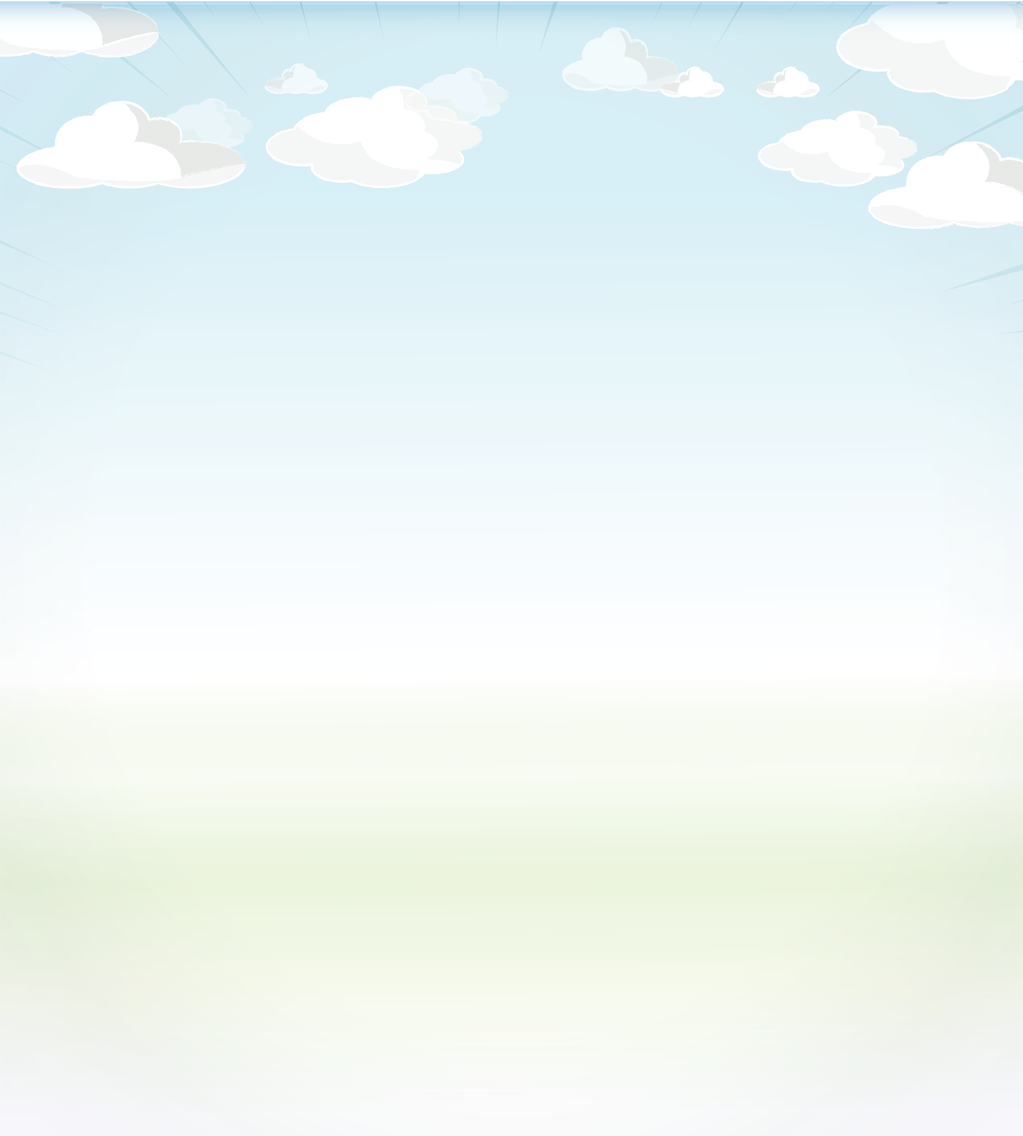
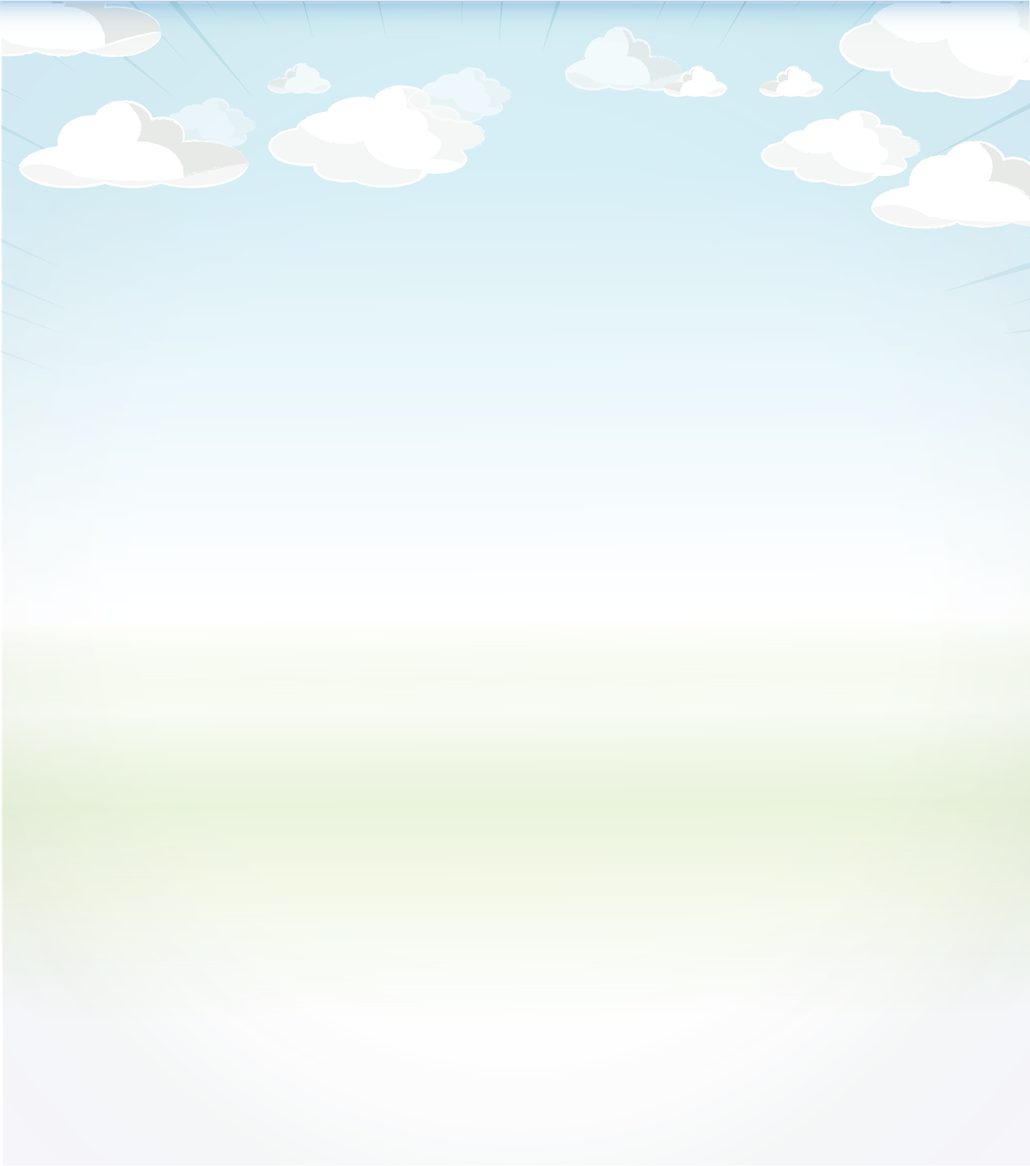
champ

diff --git a/page/rule.php b/page/rule.php
@@ -70,8 +70,8 @@
             }
 
          .scrollview-text {
-            margin-left: -25%;
-            margin-right: -25%;
+            margin-left: -40%;
+            margin-right: -40%;
             height: 1050px;
 
             overflow: auto;
@@ -127,11 +127,11 @@
                 <div class="txt_r r_title">ระยะเวลาการร่วมสนุก</div>
                 <ol class="ol_left">
                     <li>
-                        <div class="txt_r r_body">ผู้ร่วมสนุกสามารถส่งผลงานเข้าประกวดได้ตั้งแต่วันที่ 13 มีนาคม– 24 เมษายน 2560 (รวมระยะเวลาทั้งสิ้น 43 วัน) 
-                    ผ่านทาง www.BlackmoresMyStrongFamily.com</div>
+                        <div class="txt_r r_body">1. ผู้ร่วมสนุกสามารถส่งผลงานเข้าประกวดได้ตั้งแต่วันที่ 20 มีนาคม– 02 พฤษภาคม 2560 (รวมระยะเวลาทั้งสิ้น 44 วัน)  ผ่านทาง www.BlackmoresMyStrongFamily.com </div>
+
                     </li>
                      <li>
-                        <div class="txt_r r_body">ปิดรับผลงานทั้งหมดในวันที่ 24 เมษายน 2560 เวลา 24.00 น.</div>
+                        <div class="txt_r r_body">2. ปิดรับผลงานทั้งหมดในวันที่ 02 พฤษภาคม 2560 เวลา 24.00 น.</div>
                     </li>
                 </ol>
               
@@ -139,17 +139,16 @@
                 <div class="txt_r r_title">การประกาศรางวัล</div>
                  <ol class="ol_left">
                      <li>
-                         <div class="txt_r r_body">ประกาศผลวันที่ 28 เมษายน 2560 ผ่านทาง www.blackmoresmystrongfamily.com ดังนี้</div>
+                         <div class="txt_r r_body">1. ประกาศผลวันที่ 09 พฤษภาคม 2560 ผ่านทาง www.BlackmoresMyStrongFamily.com ดังนี้</div>
                          <ul>
-                            <li><div class="txt_r r_body">- ผู้ผ่านเข้ารอบ ประเภทอายุ 8 – 12 ปี เข้าร่วม Workshop กับอ.ชลิต นาคพะวัน ในวันอาทิตย์ที่ 14 พฤษภาคม 2560
-              ที่โรงเรียนสอนศิลปะ Chalit Art Project and Gallery เพื่อหาผู้ชนะเลิศ จำนวน 30 คน</div></li>
+                            <li><div class="txt_r r_body">- ผ่านเข้ารอบ ประเภทอายุ 8 – 12 ปี เข้าร่วม Workshop กับอ.ชลิต นาคพะวัน ในวันอาทิตย์ที่ 21 พฤษภาคม 2560 ที่โรงเรียนสอนศิลปะ Chalit Art Project and Gallery เพื่อหาผู้ชนะเลิศ จำนวน 30 คน</div></li>
                            </ul>
                      </li>
                      <li>
-                         <div class="txt_r r_body">ประกาศผลวันที่ 17 พฤษภาคม 2560 ผ่านทาง www.blackmoresmystrongfamily.com ดังนี้ </div>
+                         <div class="txt_r r_body">2. ประกาศผลวันที่ 24 พฤษภาคม 2560 ผ่านทาง www.BlackmoresMyStrongFamily.com ดังนี้ </div>
                          <ul>
                              <li>
-                                 <div class="txt_r r_body">&nbsp;&nbsp;&nbsp;&nbsp;ผู้ชนะเลิศประเภทอายุน้อยกว่า 8 ปี จำนวน 5 รางวัล</div>
+                                 <div class="txt_r r_body">- ผู้ชนะเลิศประเภทอายุน้อยกว่า 8 ปี จำนวน 5 รางวัล</div>
                              </li>  
                                 <div class="txt_r r_body">- ผู้ชนะเลิศประเภทอายุ 8- 12 ปี จำนวน 5 รางวัล</div>
                             <li>  
@@ -167,16 +166,14 @@
                 <div class="txt_r r_bold">&nbsp;&nbsp;&nbsp;&nbsp;รางวัลประเภทอายุน้อยกว่า 8 ปี</div>
                 <ul class="ul_left">
                     <li>
-                        <div class="txt_r r_body">รางวัลทุนการศึกษารางวัลละ 3,000 บาท พร้อมผลิตภัณฑ์เสริมอาหาร Blackmores  มูลค่ารางวัลละ 10,000 บาท 5 รางวัล
-                    รวมมูลค่าทั้งสิ้น 65,000 บาท </div>
+                        <div class="txt_r r_body">รางวัลทุนการศึกษารางวัลละ 3,000 บาท พร้อมผลิตภัณฑ์เสริมอาหาร Blackmores  มูลค่ารางวัลละ 10,000 บาทสำหรับผู้ปกครอง 5 รางวัล รวมมูลค่าทั้งสิ้น 65,000 บาท</div>
                     </li>
                 </ul>
 
                 <div class="txt_r r_bold">&nbsp;&nbsp;&nbsp;&nbsp;รางวัลประเภทอายุ 8 – 12 ปี</div> 
                 <ul class="ul_left">
                     <li>
-                        <div class="txt_r r_body">รางวัลทุนการศึกษารางวัลละ 5,000 บาท พร้อมผลิตภัณฑ์เสริมอาหาร Blackmores  มูลค่ารางวัลละ 10,000 บาท 5 รางวัล
-                    รวมมูลค่าทั้งสิ้น 75,000 บาท </div>  
+                        <div class="txt_r r_body">รางวัลทุนการศึกษารางวัลละ 5,000 บาท พร้อมผลิตภัณฑ์เสริมอาหาร Blackmores  มูลค่ารางวัลละ 10,000 บาทสำหรับผู้ปกครอง 5 รางวัล รวมมูลค่าทั้งสิ้น 75,000 บาท</div>  
                     </li>
                 </ul>
                 <div class="txt_r r_bold">&nbsp;&nbsp;&nbsp;&nbsp;รางวัลผลงาน Popular Vote</div> 
@@ -193,7 +190,7 @@
                     </li>
                 </ul>
                 
-                <br/><br/>
+                <br/>
                 <div class="txt_r r_title">เกณฑ์การตัดสิน </div> 
                 <div class="txt_r r_body">ตัดสินรางวัลจากทีมคณะกรรมการ บริษัท แบลคมอร์ส จำกัด และอาจารย์ชลิต นาคพะวัน</div> 
                 <br/>
@@ -203,84 +200,85 @@
                  <ol class="ol_left">
                      <li> 
                          <div class="txt_r r_body">
-                         ผู้โชคดีที่ได้รับรางวัล ทุนการศึกษา และ ผลิตภัณฑ์เสริมอาหาร ต้องมี “ผลงานที่ส่งเข้าประกวด” และ ชื่อ-นามสกุล ที่ระบุในผลงานซึ่งตรงกับประกาศผู้ชนะเลิศทางเว็บไซต์ พร้อมเอกสารยืนยันตัวตน มาแสดงเป็นหลักฐานในการรับของรางวัล
+                         1. ผู้โชคดีที่ได้รับรางวัล ทุนการศึกษา และ ผลิตภัณฑ์เสริมอาหาร ต้องมี “ผลงานที่ส่งเข้าประกวด” และ ชื่อ-นามสกุล ที่ระบุในผลงาน ซึ่งตรงกับประกาศผู้ชนะเลิศทางเว็บไซต์ พร้อมเอกสารยืนยันตัวตน มาแสดงเป็นหลักฐานในการรับของรางวัล 
                          </div>
                     </li>
                     <li> 
                         <div class="txt_r r_body">
-                         ผู้ที่ได้รับคัดเลือกเข้าร่วม Workshop 30 คน จะต้องยืนยันสิทธิ์ภายใน 7 วัน (ตั้งแต่วันที่ 29 เมษายน – 9 พฤษภาคม) ผ่านทาง Inbox ของ Facebook Blackmores Thailand นับตั้งแต่วันประกาศรายชื่อ
+                         2. ผู้ที่ได้รับคัดเลือกเข้าร่วม Workshop 30 คน จะต้องยืนยันสิทธิ์ภายใน 11 วัน (ตั้งแต่วันที่ 9 – 19 พฤษภาคม 2560) ผ่านทาง Inbox ของ
                          </div>
                     </li>
                     <li>
                          <div class="txt_r r_body">
-                        ผู้โชคดีที่ได้รับรางวัลทุนการศึกษา และผลิตภัณฑ์เสริมอาหารจะต้องยืนยันสิทธิ์ในการรับรางวัลภายใน 7 วัน (วันที่ 19 – 24 พฤษภาคม 2560) ผ่านทาง Inbox ของ Facebook Blackmores Thailand นับตั้งแต่วันประกาศรายชื่อ
+                        3. ผู้โชคดีที่ได้รับรางวัลทุนการศึกษา และผลิตภัณฑ์เสริมอาหารจะต้องยืนยันสิทธิ์ในการรับรางวัลภายใน 7 วัน  (วันที่ 24- 30 พฤษภาคม 2560) ผ่านทาง Inbox ของ Facebook Blackmores Thailand นับตั้งแต่วันประกาศรายชื่อ 
                         </div>
                     </li>
+
                     <li>
                         <div class="txt_r r_body">
-                        เกณฑ์การตัดสินรางวัลมีดังนี้
+                        4. เกณฑ์การตัดสินรางวัลมีดังนี้
                         </div>
                         <ul>
-                            <li class="a">
+                            <li >
                                 <div class="txt_r r_body">
-                                สำหรับประเภทอายุน้อยกว่า 8 ปี ทางคณะกรรมการจะตัดสินจากผลงานที่สร้างสรรค์ที่สุด
+                                - สำหรับประเภทอายุน้อยกว่า 8 ปี ทางคณะกรรมการจะตัดสินจากผลงานที่สร้างสรรค์ที่สุด
                                 </div>
                             </li> 
-                            <li class="a">
+                            <li >
                                 <div class="txt_r r_body">
-                                สำหรับประเภทอายุ 8-12 ปี ทางคณะกรรมการจะตัดสินจากผลงานที่สร้างสรรค์ที่สุด 30 รางวัล และร่วมเวิร์คช้อปอีกครั้งจึงประกาศ รางวัลผู้ชนะเลิศ 5 รางวัล
+                                - สำหรับประเภทอายุ 8-12 ปี ทางคณะกรรมการจะตัดสินจากผลงานที่สร้างสรรค์ที่สุด 30 รางวัล และร่วมเวิร์คช้อปอีกครั้งจึงประกาศ รางวัลผู้ชนะเลิศ 5 รางวัล
                                 </div>
                             </li>
-                            <li class="a">
+                            <li >
                                 <div class="txt_r r_body">
-                                สำหรับผลงาน Popular Vote ทางคณะกรรมการจะตัดสินจากคะแนนที่มากที่สุด 5 อันดับแรกของแต่ละประเภทอายุ รวมเป็น 10 รางวัล
+                                - สำหรับผลงาน Popular Vote ทางคณะกรรมการจะตัดสินจากคะแนนที่มากที่สุด 5 อันดับแรกของแต่ละประเภทอายุ รวมเป็น 10 รางวัล
                                 </div>
                             </li>
-                            <li class="a">
+                            <li >
                                 <div class="txt_r r_body">
-                                สำหรับผู้เข้าร่วมโหวตผลงาน ทางคณะกรรมการจะตัดสินด้วยวิธีการสุ่มผู้โชคดี
+                                - สำหรับผู้เข้าร่วมโหวตผลงาน ทางคณะกรรมการจะตัดสินด้วยวิธีการสุ่มผู้โชคดี
                                 </div>
                             </li>
                         </ul>
                     </li>
                     <li>
                         <div class="txt_r r_body">
-                        สงวนสิทธิ์ รับรางวัลมูลค่าสูงสุดเพียงรางวัลเดียวเท่านั้น ต่อ 1 ท่าน อาทิเช่น หากท่านชนะเลิศในรายการประเภทอายุต่ำกว่า 8 ปี และชนะเลิศรางวัล Popular Vote ด้วยทางทีมงานจะขอสงวนสิทธิ์ให้เพียงรางวัลเดียว ที่มีมูลค่าสูงสุดเท่านั้น
+                        5. สงวนสิทธิ์ รับรางวัลมูลค่าสูงสุดเพียงรางวัลเดียวเท่านั้น ต่อ 1 ท่าน อาทิเช่น หากท่านชนะเลิศในรายการประเภทอายุต่ำกว่า 8 ปี และชนะเลิศรางวัล Popular Vote ด้วยทางทีมงานจะขอสงวนสิทธิ์ให้เพียงรางวัลเดียว ที่มีมูลค่าสูงสุดเท่านั้น
                         </div>
                     </li>
                     <li>
                         <div class="txt_r r_body">
-                        ผู้ชนะเลิศทั้งประเภทอายุน้อยกว่า 8 ปี และประเภทอายุ 8-12 ปี ต้องมารับรางวัลที่ บริษัท แบลคมอร์ส จำกัด ที่อยู่ ชั้น 21 เอ อาคารมหานครยิบซั่ม 539/2 ถ.ศรีอยุธยา แขวงถนนพญาไท เขตราชเทวี กรุงเทพฯ 10400 ด้วยตัวเองเท่านั้น ผู้ชนะเลิศรางวัล Popular vote และผู้โชคดีจากการร่วมโหวตนั้น ทาง บริษัท แบลคมอร์ส จำกัด จะจัดส่งของรางวัลไปให้ทางไปรษณีย์
+                        6. ผู้ชนะเลิศทั้งประเภทอายุน้อยกว่า 8 ปี และประเภทอายุ 8-12 ปี ต้องมารับรางวัลที่ บริษัท แบลคมอร์ส จำกัด ที่อยู่ ชั้น 21 เอ อาคารมหานครยิบซั่ม 539/2 ถ.ศรีอยุธยา แขวงถนนพญาไท เขตราชเทวี กรุงเทพฯ 10400 ด้วยตัวเองเท่านั้น ผู้ชนะเลิศรางวัล Popular vote และผู้โชคดีจากการร่วมโหวตนั้น ทาง บริษัท แบลคมอร์ส จำกัด จะจัดส่งของรางวัลไปให้ทางไปรษณีย์
                         </div>
                     </li> 
                     <li>
                         <div class="txt_r r_body">
-                        รางวัลไม่สามารถแลกทอนหรือเปลี่ยนเป็นเงินสดได้
+                        7. รางวัลไม่สามารถแลกทอนหรือเปลี่ยนเป็นเงินสดได้
                         </div>
                     </li>
                     <li>
                         <div class="txt_r r_body">
-                        การตัดสินจากทีมคณะกรรมการบริษัท แบลคมอร์ส จำกัด และอาจารย์ชลิต นาคพะวัน ถือเป็นเด็ดขาดและสิ้นสุด
+                        8. การตัดสินจากทีมคณะกรรมการบริษัท แบลคมอร์ส จำกัด และอาจารย์ชลิต นาคพะวัน ถือเป็นเด็ดขาดและสิ้นสุด
                         </div>
                     </li>
                     <li>
                         <div class="txt_r r_body">
-                        ผลงานการประกวดของผู้ชนะถือเป็นลิขสิทธิ์ของ Blackmores ในการครอบครองแต่เพียงผู้เดียว
+                        9. ผลงานการประกวดของผู้ชนะถือเป็นลิขสิทธิ์ของ Blackmores ในการครอบครองแต่เพียงผู้เดียว
                         </div>
                     </li>
                     <li>
                         <div class="txt_r r_body">
-                        พนักงานและครอบครัวของ บริษัท แบลคมอร์ส จำกัด ตัวแทนโฆษณา รวมทั้งคณะกรรมการดำเนินงานพร้อมครอบครัวไม่สามารถเข้าร่วมกิจกรรมได้
+                        10. พนักงานและครอบครัวของ บริษัท แบลคมอร์ส จำกัด ตัวแทนโฆษณา รวมทั้งคณะกรรมการดำเนินงานพร้อมครอบครัวไม่สามารถเข้าร่วมกิจกรรมได้
                         </div>
                     </li> 
                     <li>
                         <div class="txt_r r_body">
-                        หากคณะกรรมการตรวจพบว่าผลงานที่ส่งเข้าประกวดมีการลอกเลียนแบบผลงานของผู้อื่น ทางบริษัท แบลคมอร์ส จำกัด จะทำการตัดสิทธิ์ และจะไม่รับผิดชอบการฟ้องร้องใดๆ ทั้งสิ้น
+                        11. หากคณะกรรมการตรวจพบว่าผลงานที่ส่งเข้าประกวดมีการลอกเลียนแบบผลงานของผู้อื่น ทางบริษัท แบลคมอร์ส จำกัด จะทำการตัดสิทธิ์ และจะไม่รับผิดชอบการฟ้องร้องใดๆ ทั้งสิ้น
                         </div>
                     </li>
                     <li> 
                         <div class="txt_r r_body">
-                        หากของรางวัลมีมูลค่าตั้งแต่ 1,000 บาท ขึ้นไป ผู้ได้รับของรางวัลต้องเสียภาษีหัก ณ ที่จ่าย 5 %
+                        12. หากของรางวัลมีมูลค่าตั้งแต่ 1,000 บาท ขึ้นไป ผู้ได้รับของรางวัลต้องเสียภาษีหัก ณ ที่จ่าย 5 %
                         </div>
                     </li>
                  </ol>

diff --git a/page/select_helo.php b/page/select_helo.php
@@ -176,7 +176,7 @@
                 }
                 
                 .bg_winner{
-                  height: 1600px;
+                  height: 120%;
                    
                  }
                    
@@ -187,8 +187,7 @@
                    -o-background-size: cover;
                    background-size: 100% 100%;
 
-                   width: 100%;  
-                   height:20%;
+                 
                 }
                 
                  .heg1_txt{
@@ -206,6 +205,10 @@
                     font-size: 1.5em;
                     font-weight: normal;
                 }
+                  .bg_winner{
+                  height: 140%;
+                   
+                 }
             }
             
              @media (min-width: 992px){
@@ -233,11 +236,14 @@
                    -o-background-size: cover;
                    background-size: 100% 100%;
 
-                   width: 100%;  
-                   height:30%;
+             
                 }
             }
             @media (min-width: 1200px){
+              .select_hero
+              {
+                padding-top: 10%;
+              }
                  .heg_txt{
                     height: 5.3em;
                 } 
@@ -246,6 +252,10 @@
                     margin-top: 50px;
 
                 } 
+                       .bg_winner{
+                  height: 160%;
+                   
+                 }
                 
                 .r_title1{
                      color: #F99F00;
@@ -266,8 +276,8 @@
                    -o-background-size: cover;
                    background-size: 100% 100%;
 
-                   width: 100%;  
-                   height:40%;
+                   /*width: 100%;  
+                   height:40%;*/
                 }
             }
             .c_h{
@@ -331,7 +341,7 @@
 
              .background-main-rule
             {
-                background: url(images/newBackground.png) no-repeat center top local; 
+                background: url(images/background2.png) no-repeat center top local; 
                 -webkit-background-size: cover;
                 -moz-background-size: cover;
                 -o-background-size: cover;
@@ -881,8 +891,8 @@
                                                         </div>
                                                     </div>
                                                     <div class="col-xs-12 col-sm-12 col-md-8 col-lg-8 ">
-                                                         <div class="bg_select_8_12">
-                                                            <div class="col-xs-12 col-sm-12 col-md-12 col-lg-12 ">
+                                                         <div>
+                                                            <div class="col-xs-12 col-sm-12 col-md-12 col-lg-12 bg_select_8_12 ">
                                                                 <div id ="detail_1" class = "detail_1 text-center heg1_txt">
                                                                     <div class="txt_r r_title_inline text-uppercase"><img class="center-block select_hero img-responsive" src="images/helo/txt_C Bright Power.png"></div>
                                                                     <dl class="dl-horizontal">

diff --git a/page/winner_all.php b/page/winner_all.php
@@ -58,16 +58,17 @@
 
         .bg_winner{
             /*background-image: url("images/winner/bg_winner.png");*/
-                background: url(images/gallery/bg_winner.png) ; 
+            background: url(images/gallery/bg_winner.png) ; 
           -webkit-background-size: cover;
           -moz-background-size: cover;
           -o-background-size: cover;
 
-           background-size:     cover;                     
+           background-size: 80% 100%;                     
            background-repeat:   no-repeat;
            margin-top: 20px;
-           width: 100%;
-           height: 600px;
+          background-position: center;
+          width: 100%;
+          height: 600px;
         }
 
 
@@ -467,16 +468,17 @@
             </div>    
        </div>
    </div>
- </div>
-
-<br/>
+   <br/>
          <div class="visible-xs">   
             <img src="images/footer.png" style="width: 100%; height: 200px" />
         </div>     
          <div class="hidden-xs">      
         <img src="images/footer.png" style="width: 100%; height: 400px" />
         </div>  
-</div>
+ </div>
+
+
+
 
 </body>
 </html>

diff --git a/index.php b/index.php
@@ -479,7 +479,7 @@
     @media (min-width: 1080px){
       .foot-nev
       {
-        background-size: 150px 60px;
+        background-size: 200px 60px;
         margin-left: 30%;
         width: 40%;
         margin-right: 30%;
@@ -493,9 +493,9 @@
 
     .div-show-left-t
     {
-        margin-top: 5%;
+        margin-top: 10% !important;
         width: 35%;
-        margin-left: 10%;
+        margin-left: 5% !important;
 
     }
        .div-show-right-t
